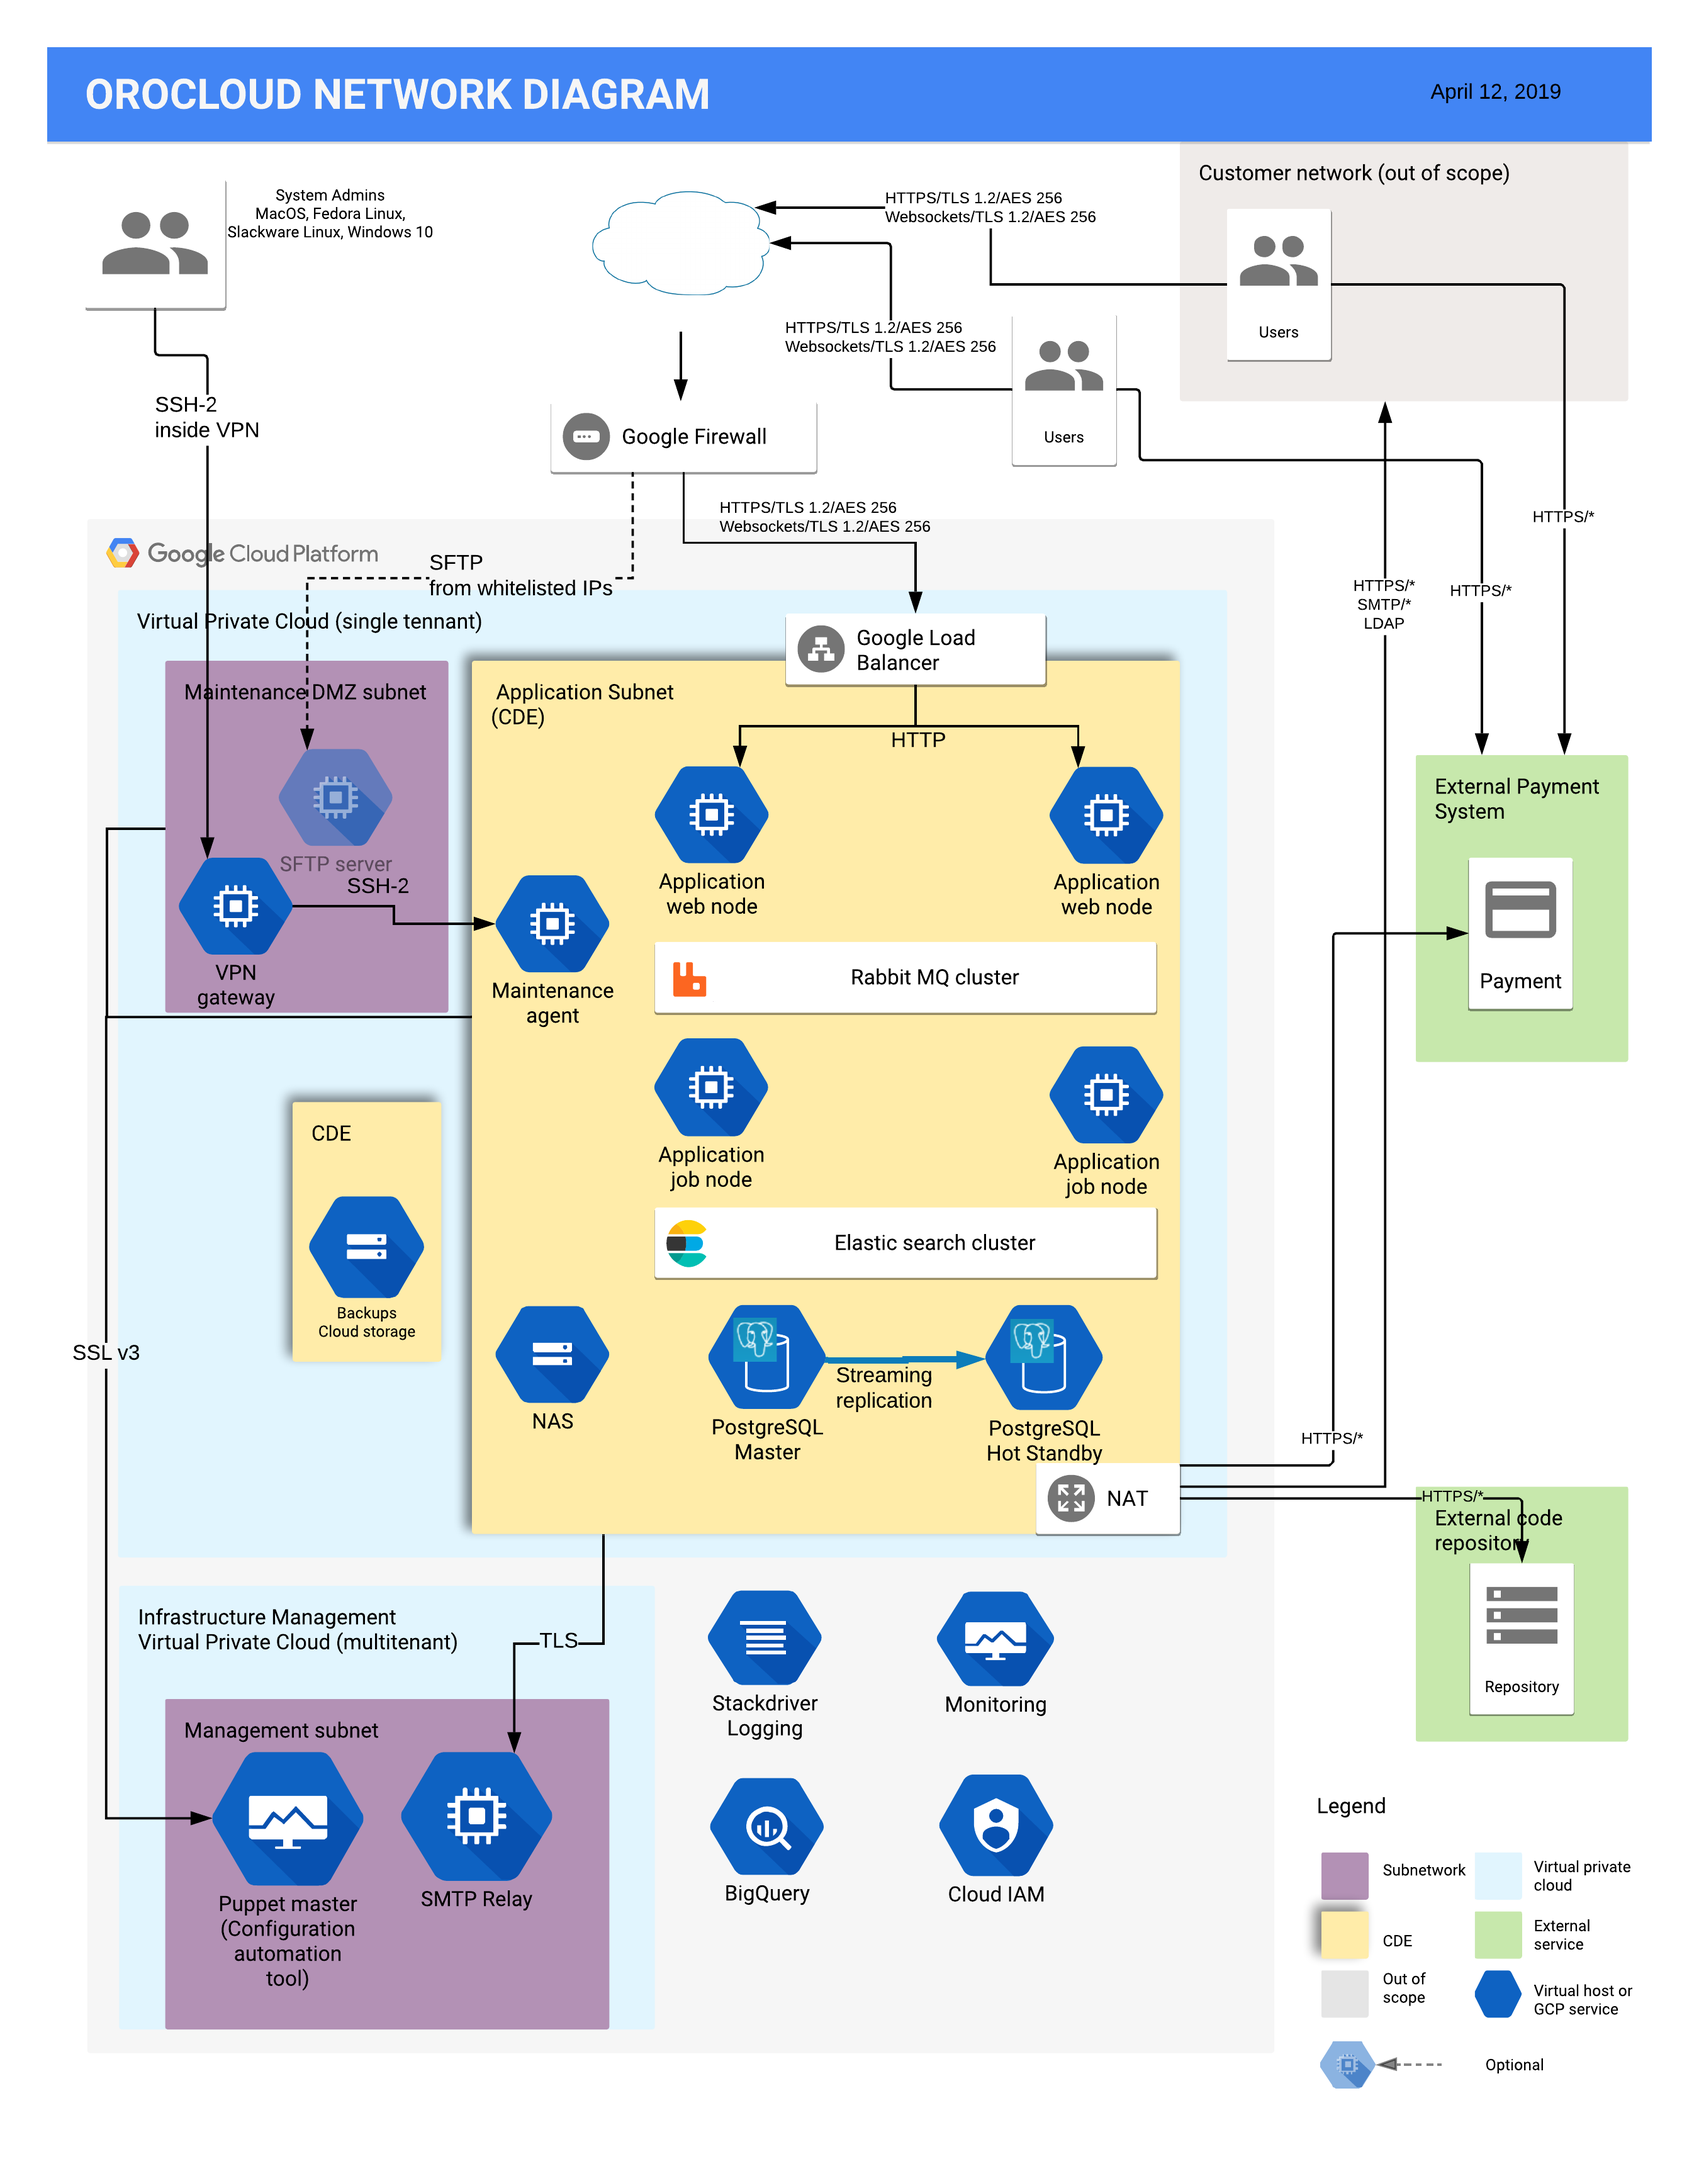
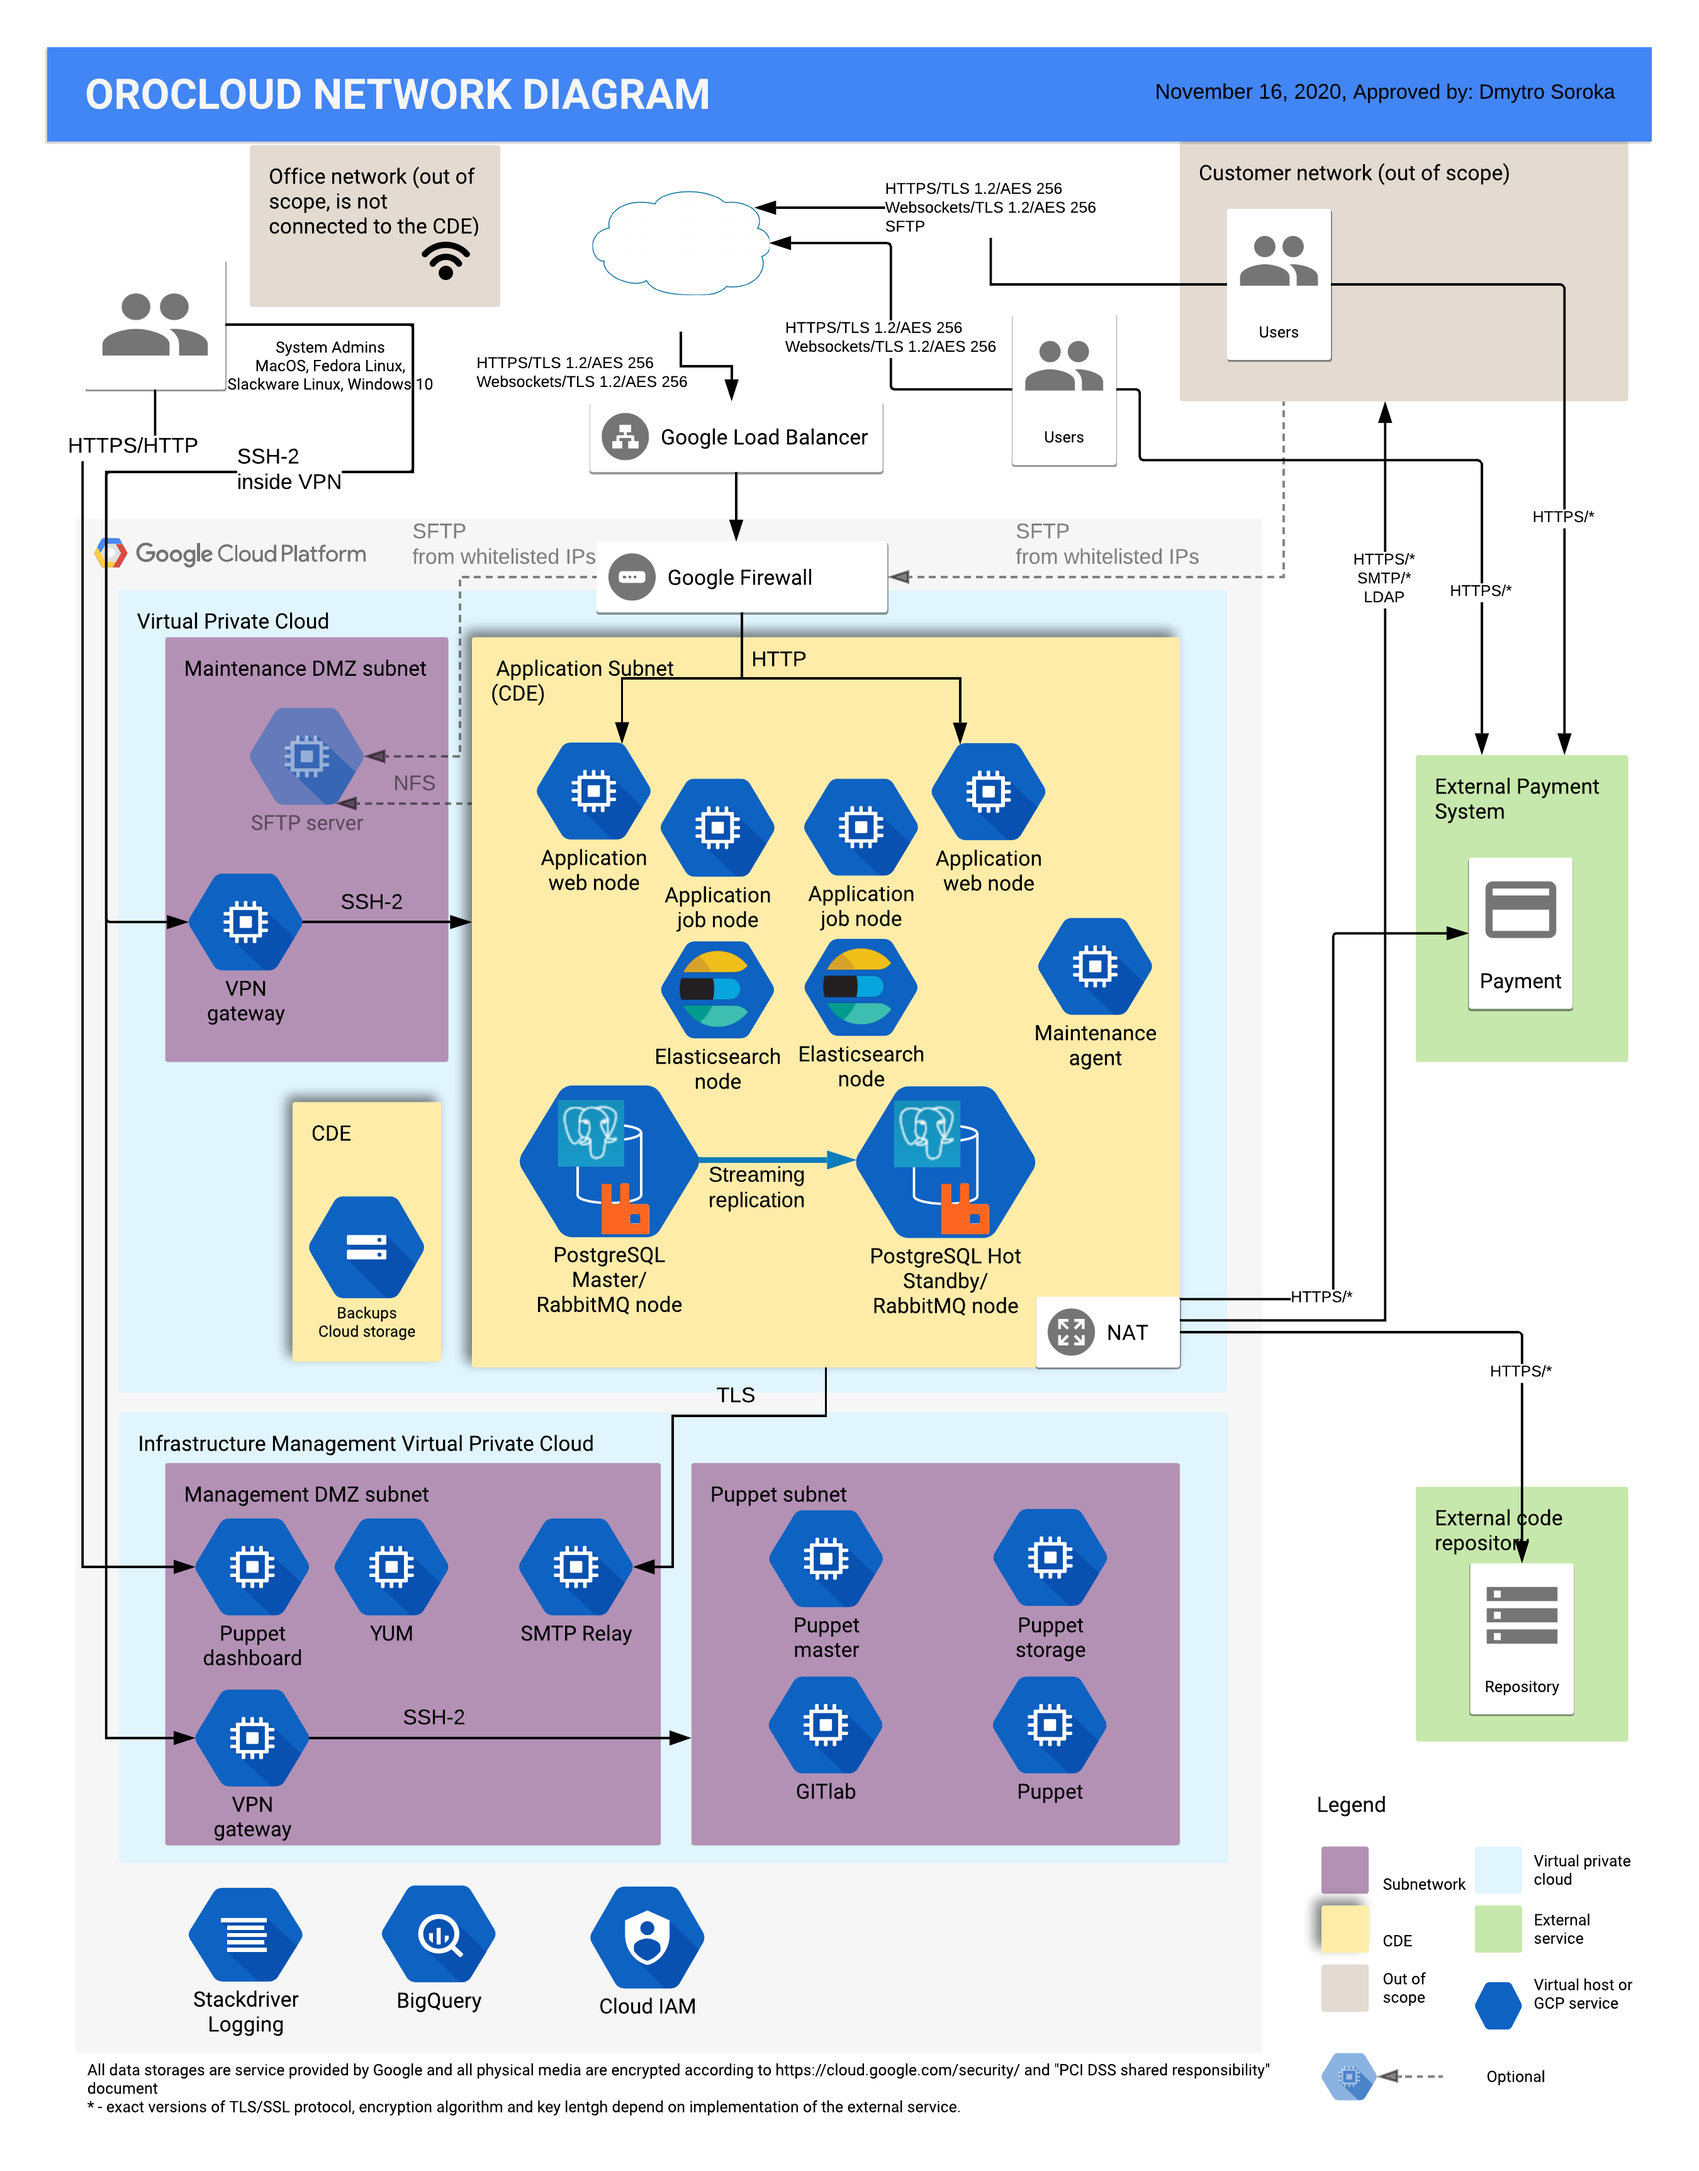
DOC-1701: (4.1) Update Cloud Documentation with a New Diagram

diff --git a/cloud/security.rst b/cloud/security.rst
@@ -18,6 +18,8 @@ Resources of the OroCloud environment are isolated in the dedicated Google Cloud
 * `Application subnet`_
 * `Maintenance DMZ subnet`_
 
+.. important:: Please do not change subfolders' permissions using either SFTP client or application PHP code, all subfolders must be created only via SFTP client.
+
 The following diagram illustrates the network segmentation of a typical Oro application deployment in OroCloud environment:
 
 .. image:: /cloud/img/production_network_highlevel_public_diagram.png
